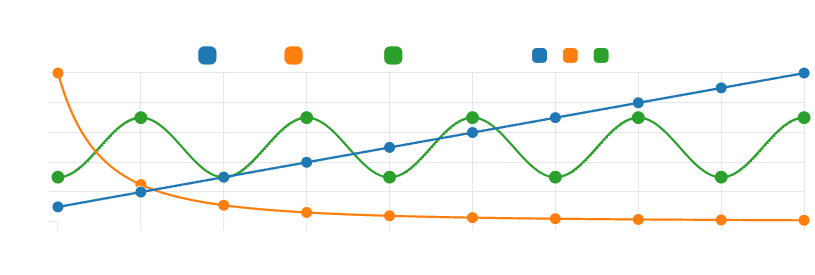
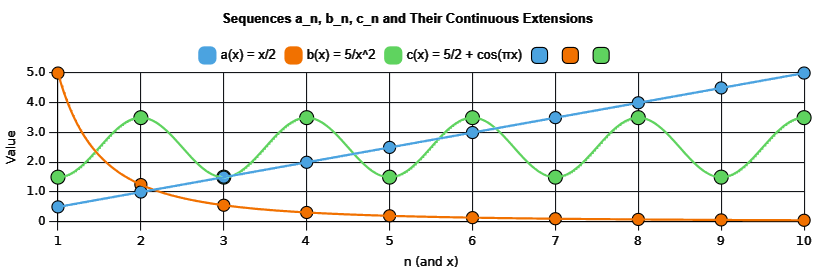
Update sequences docs and add admonition wrapper
Polish Sequences & Properties content and add styling for admonitions. Changes include: updated three figure assets; reflowed and corrected math formatting (Binet formula now shows φ, aligned multiline equations); added/improved figure attributes (class: dark-light) for several figures; renamed theorem labels for clarity; fixed typos and wording; wrapped a note in a warning admonition. Also add new static assets wrap.css and wrap.js to wrap nested admonitions in a background container while preserving original border radius and margins.

diff --git a/book/_static/wrap.js b/book/_static/wrap.js
@@ -1,0 +1,19 @@
+// wrap each admonition inside another admonition inside a div.wrap-admonition to add a background to the admonition
+// without affecting the border radius and margin of the original admonition
+document.addEventListener("DOMContentLoaded", () => {
+  document.querySelectorAll("div.admonition div.admonition")
+    .forEach(admonition => {
+      // wrap the admonition in a div with class "wrap-admonition"
+      const wrap = document.createElement("div");
+      wrap.classList.add("wrap-admonition");
+      // add the border radius to the wrap based on the admonition style
+      const style = window.getComputedStyle(admonition);
+      wrap.style.borderRadius = style.borderRadius;
+      // add margin to the wrap based on the admonition margin
+      wrap.style.margin = style.margin;
+      // move the admonition inside the wrap 
+      admonition.parentNode.insertBefore(wrap, admonition);
+      wrap.appendChild(admonition);
+      
+    });
+});

diff --git a/book/_static/wrap.css b/book/_static/wrap.css
@@ -1,0 +1,4 @@
+/* add a background */
+div.wrap-admonition {
+    background-color: var(--pst-color-background);
+}

diff --git a/book/Sequences_and_series/Sequences/properties_of_sequences.md b/book/Sequences_and_series/Sequences/properties_of_sequences.md
@@ -1,11 +1,6 @@
 (Sec:PropertiesOfSequences)=
 # Properties of sequences
 
-In this section we cover:
-
-- Increasing and decreasing sequences (incl. monotonic sequences)
-- Sequences that are bounded above and/or below
-
 ## Introduction
 
 In the previous section we have seen that a sequence is an ordered list of numbers. We have also seen that there are many different types of sequences, such as arithmetic, geometric, harmonic and alternating sequences. These sequences have different properties, such as being increasing or decreasing, being bounded above or below, and so on. In this section we will study these properties in more detail.
@@ -26,6 +21,7 @@ Although these sequences are all infinite, we can graph several of their terms t
 
 ```{figure} Images/Fig-PropertiesOfSequences-Introduction.png
 :name: Fig:PropertiesOfSequences:Introduction
+:class: dark-light
 
 The first 10 terms of the sequences $\{a_n\}$, $\{b_n\}$ and $\{c_n\}$ are plotted in the graph above.
 ```
@@ -143,7 +139,7 @@ We must conclude that the sequence $\{c_n\}$ is *non-monotonic*, as it is neithe
 For several of the common types of sequences of {numref}`Sec:SeqAndTypes:Types` we can easily determine whether they are increasing, decreasing or non-monotonic:
 
 ::::{prf:theorem}
-:label: Thm:PropertiesOfSequences:CommonTypes
+:label: Thm:PropertiesOfSequences:CommonTypesBehaviour
 
 - An *arithmetic* sequence is *increasing* if the common difference $d$ is *positive*, and *decreasing* if the common difference $d$ is *negative*.
 
@@ -196,12 +192,12 @@ To investigate this, we consider the ratio between two consecutive terms:
 If this sequence would be ultimately decreasing, then we should be able to find an integer $N\geq 1$ such $\dfrac{1}{2}\cdot\dfrac{(n+1)^2}{n^2}<1$ for all $n\geq N$. We will solve this inequality to find such an integer $N$:
 
 \begin{align*}
-&~ & \dfrac{1}{2}\cdot\dfrac{(n+1)^2}{n^2} < & 1  \\
-&\Rightarrow & \dfrac{(n+1)^2}{n^2} < & 2 \\
-&\Rightarrow & (n+1)^2 < & 2n^2 \\
-&\Rightarrow & n^2 + 2n + 1 < & 2n^2 \\
-&\Rightarrow & 2n + 1 < & n^2 \\
-&\Rightarrow & 0 < & n^2 - 2n - 1.
+&~ & \dfrac{1}{2}\cdot\dfrac{(n+1)^2}{n^2} &< 1  \\
+&\Rightarrow & \dfrac{(n+1)^2}{n^2} &< 2 \\
+&\Rightarrow & (n+1)^2 &< 2n^2 \\
+&\Rightarrow & n^2 + 2n + 1 &< 2n^2 \\
+&\Rightarrow & 2n + 1 &< n^2 \\
+&\Rightarrow & 0 &< n^2 - 2n - 1.
 \end{align*}
 
 The quadratic expression on the right of the last equality would be zero if $n=1-\sqrt{2}\approx -0.414<0$ or if $n=1+\sqrt{2}\approx 2.414>0$. Since $n$ is a positive integer, we conclude that $n^2 - 2n - 1>0$ for all $n\geq3$. Hence, we have $\dfrac{1}{2}\cdot\dfrac{(n+1)^2}{n^2}<1$ for all $n\geq3$.
@@ -217,12 +213,14 @@ We will show that $\dfrac{2n}{n^2+1}>\dfrac{2(n+1)}{(n+1)^2+1}$ for all $n=1,2,3
 
 Note that
 
-\begin{align*}
-\frac{2n}{n^2+1}>\frac{2n+2}{n^2+2n+2}&\quad\Longleftrightarrow\quad2n(n^2+2n+2)>(2n+2)(n^2+1)\\
-&\quad\Longleftrightarrow\quad2n^3+4n^2+4n>2n^3+2n^2+2n+2\\
-&\quad\Longleftrightarrow\quad2n^2+2n>2\\
-&\quad\Longleftrightarrow\quad n(n+1)>1.
-\end{align*}
+$$
+\begin{array}{rclcrcl}
+\frac{2n}{n^2+1} & > & \frac{2n+2}{n^2+2n+2} & \Longleftrightarrow & 2n(n^2+2n+2) & > & (2n+2)(n^2+1)\\
+&&& \Longleftrightarrow & 2n^3+4n^2+4n & > & 2n^3+2n^2+2n+2\\
+&&& \Longleftrightarrow & 2n^2+2n & > & 2\\
+&&& \Longleftrightarrow & n(n+1) & > & 1.
+\end{array}
+$$
 
 This is true for $n\geq1$, so the sequence is *increasing*.
 
@@ -252,6 +250,7 @@ $$
 
 ```{figure} Images/Fig-PropertiesOfSequences-Functions.png
 :name: Fig:PropertiesOfSequences:Functions
+:class: dark-light
 
 The first 10 terms of the sequences $\{a_n\}$, $\{b_n\}$ and $\{c_n\}$ are plotted in the graph above, including the three functions $f$, $g$ and $h$ associated with these sequences.
 ```
@@ -283,7 +282,12 @@ Let $\{a_n\}_{p}^{\infty}$ be a sequence and $f:\mathbb{R}\rightarrow\mathbb{R}$
 
 ::::
 
+::::{warning}
+:name: Warn:PropertiesOfSequences:Functions
+
 Note that this theorem only states a relation between the affirmative properties of functions and sequences. For the invalidating properties of {prf:ref}`Def:PropertiesOfSequences:Invalidating` no such theorem exists.
+
+::::
 
 ::::::{prf:example}
 :label: Ex:Sequences:IncreasingExample1Function
@@ -320,6 +324,7 @@ We show that the sequence $\{a_n\}_{n=1}^{\infty}$ with $a_n=\dfrac{2n}{n^2+1}$ 
 width: 50%
 name: Fig:Sequences:IncreasingExample2Function
 align: center
+class: dark-light
 ---
 The terms of the sequence $\{a_n\}$ lie on the graph of $f(x)=\dfrac{2x}{x^2+1}$.
 ```
@@ -358,7 +363,7 @@ $$
 
 Because we start with two positive numbers, and keep adding these positive numbers, every term in the Fibonacci sequence will be positive. But this means that two consecutive terms will have a positive difference number as soon as we are allowed to use the recursive formula.
 
-This is the case if $n\geq1$, and indeed we see that $F_3-F_2 = 2 - 1 = 1 > 0$. Thsi results in the conclusion that $F_2<F_3$, $F_3<F_4$ and so on. In conclusion we can say that the Fibonacci sequence is *ultimately increasing*.
+This is the case if $n\geq1$, and indeed we see that $F_3-F_2 = 2 - 1 = 1 > 0$. This results in the conclusion that $F_2<F_3$, $F_3<F_4$ and so on. In conclusion we can say that the Fibonacci sequence is *ultimately increasing*.
 
 ::::::
 
@@ -393,9 +398,9 @@ We will apply the principle of mathematical induction to show that the sequence 
 
 To do that, we first need to reformulate what we want to show. Using {prf:ref}`Thm:PropertiesOfSequences:Affirming`, we see that we must show that $a_n<a_{n+1}$ for all $n=1,2,3,\ldots$. So our statement $S_n$ is $a_n<a_{n+1}$.
 
-First, consider $n=1$ (because $p=1$ for this sequence). So statement $S_1$ is $a_1<a_2$. Because we have $a_1=1$ and $a_2=3$, we also have $a_2-a_1=3-2=1$ and therefor $a_1<a_2$. This means our first statement $S_1$ is true.
+First, consider $n=1$ (because $p=1$ for this sequence). So statement $S_1$ is $a_1<a_2$. Because we have $a_1=1$ and $a_2=3$, we also have $a_2-a_1=3-2=1$ and therefore $a_1<a_2$. This means our first statement $S_1$ is true.
 
-Second, assume that the stamtent $S_k$ given by $a_k<a_{k+1}$ is true for a $k\geq 1$. Then we must show that the statement $S_{k+1}$ given by $a_{k+1}<a_{k+2}$ is also true, which we will do next:
+Second, assume that the statement $S_k$ given by $a_k<a_{k+1}$ is true for a $k\geq 1$. Then we must show that the statement $S_{k+1}$ given by $a_{k+1}<a_{k+2}$ is also true, which we will do next:
 
 $$
 a_{k+1}=\frac{1}{2}(a_k+5)<\frac{1}{2}(a_{k+1}+5)=a_{k+2}.
@@ -443,6 +448,7 @@ $$
 
 ```{figure} Images/Fig-PropertiesOfSequences-Bounds.png
 :name: Fig:PropertiesOfSequences:Bounds
+:class: dark-light
 
 The first 50 terms of the sequences $\{a_n\}$, $\{b_n\}$ and $\{c_n\}$ are plotted in the graph above.
 ```
@@ -479,7 +485,7 @@ We define the follow invalidating terms:
 For several of the common types of sequences of {numref}`Sec:SeqAndTypes:Types` we can easily determine whether they are bounded above, bounded below or both.
 
 ::::{prf:theorem}
-:label: Thm:PropertiesOfSequences:CommonTypes
+:label: Thm:PropertiesOfSequences:CommonTypesBounds
 
 - An *arithmetic sequence* with a positive common difference is bounded below by the first term, but not bounded above.
 
@@ -513,6 +519,7 @@ We investigate wether the sequence $\{a_n\}_{n=1}^{\infty}$ with $a_n=\dfrac{n}{
 width: 50%
 name: Fig:Sequences:BoundedExample1
 align: center
+class: dark-light
 ---
 The terms of the sequence $\{a_n\}$ lie on the graph of $f(x)=\dfrac{x}{x+1}$.
 ```
@@ -544,6 +551,7 @@ Now consider the sequence $\{a_n\}_{n=1}^{\infty}$ with $a_n=\dfrac{2n}{n^2+1}$ 
 width: 50%
 name: Fig:Sequences:BoundedExample2
 align: center
+class: dark-light
 ---
 The terms of the sequence $\{a_n\}$ lie on the graph of $f(x)=\dfrac{2x}{x^2+1}$.
 ```

diff --git a/book/Sequences_and_series/Sequences/introduction_to_sequences.md b/book/Sequences_and_series/Sequences/introduction_to_sequences.md
@@ -547,12 +547,12 @@ $$
 
 which gives that $c_1=\displaystyle\frac{1}{\sqrt{5}}$ and $c_2=-\displaystyle\frac{1}{\sqrt{5}}$.
 
-This means we have
+This means we have for $n=0,1,2,\ldots$ that
 
 \begin{align*}
 F_n&=\frac{1}{\sqrt{5}}\left(\frac{1+\sqrt{5}}{2}\right)^n-\frac{1}{\sqrt{5}}\left(\frac{1-\sqrt{5}}{2}\right)^n\\
-&=\frac{(1+\sqrt{5})^n-(1-\sqrt{5})^n}{2^n\sqrt{5}},\quad n=0,1,2,\ldots.
-&= \frac{\varphi^n-(1-\varphi)^n}{\sqrt{5}}\quad\text{for}\quad n=0,1,2,\ldots.
+&=\frac{(1+\sqrt{5})^n-(1-\sqrt{5})^n}{2^n\sqrt{5}} \\
+&= \frac{\varphi^n-(1-\varphi)^n}{\sqrt{5}}
 \end{align*}
 
 with